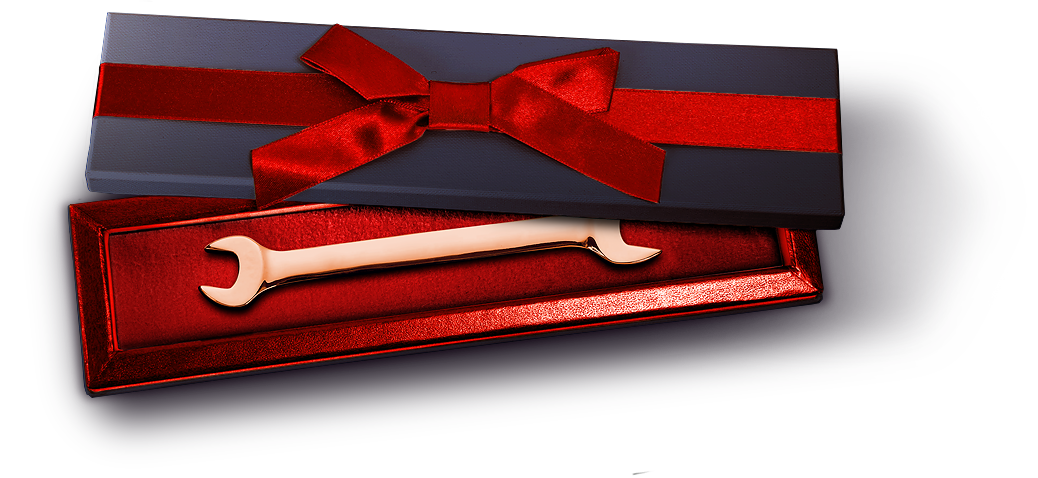
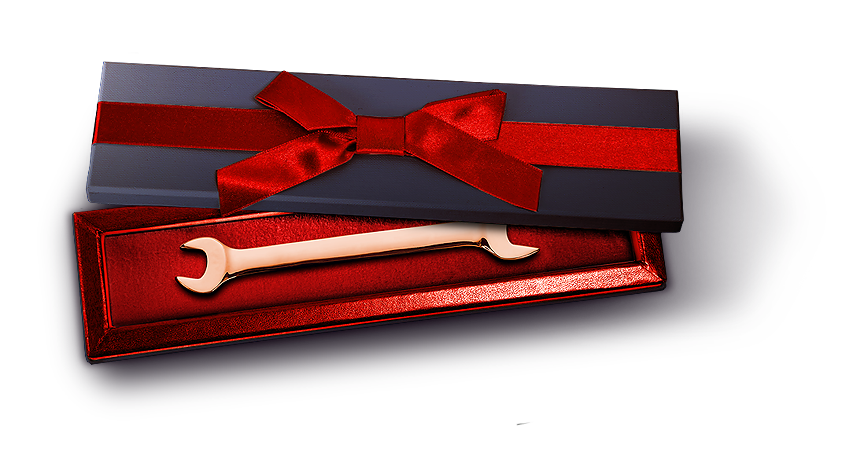
????? ???????? ??? ????????????.

diff --git a/www/css/main.css b/www/css/main.css
@@ -1567,13 +1567,13 @@ OL {
 .b-equipment {
 	position: relative;
 	z-index: -1;
-	height: 356px;
+	height: 295px;
 }
 
 	.b-equipment .image {
 		position: absolute;
-		top: -28px;
-		left: -318px;
+		top: -71px;
+		left: -228px;
 	}
 .b-wrapped-line {
 	position: relative;
